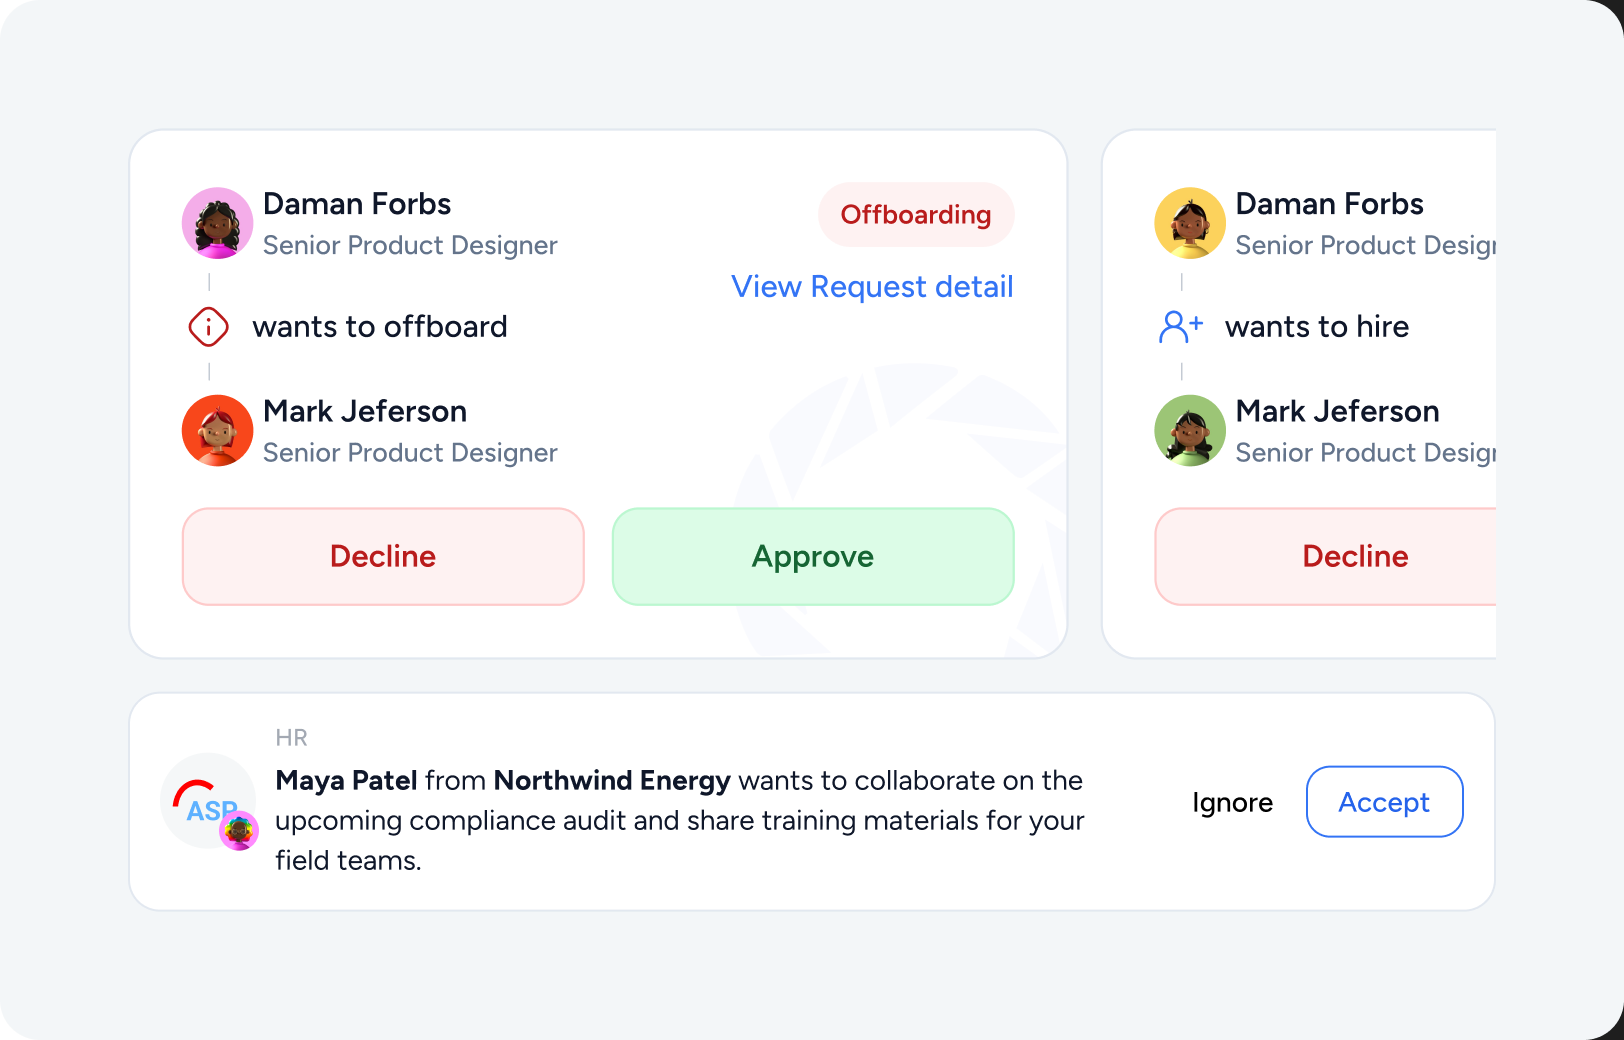
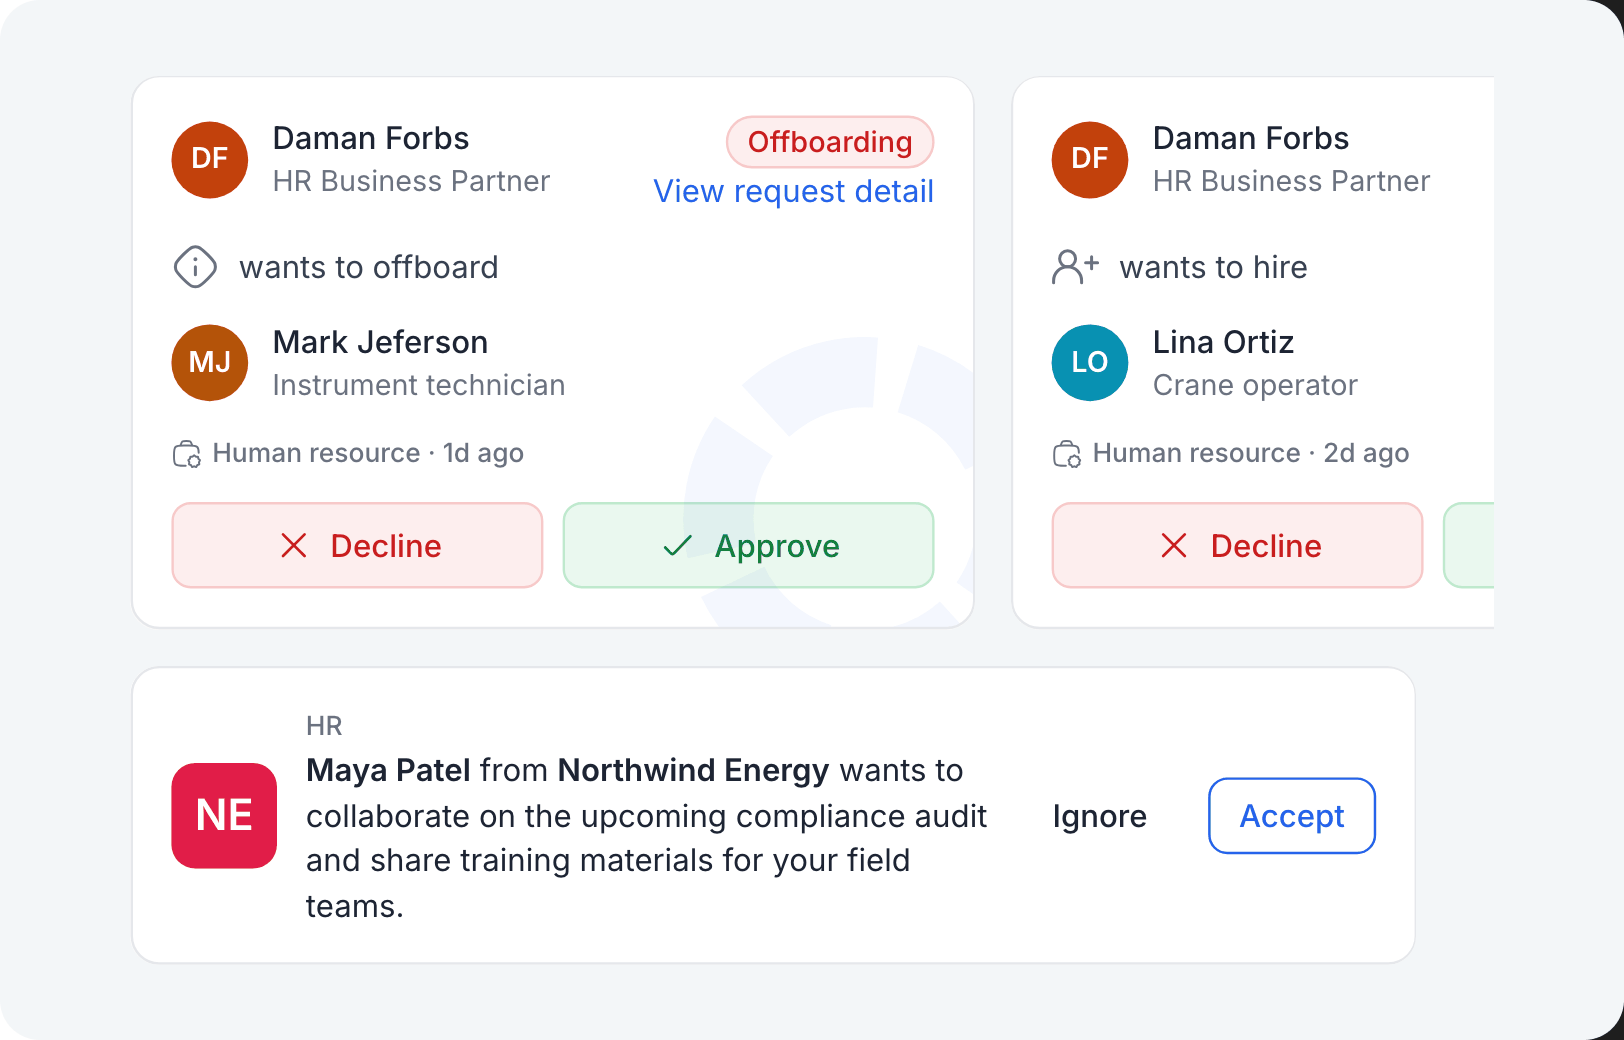
feat(work): Connect2WOW thumbnails show the redesigned screens
Same pages as before (the HR worker record, split over the first and
last panel, and the approval requests with a partner request), rendered
from the redesigned prototype at 2x over the original backgrounds.

diff --git a/src/_data/home.js b/src/_data/home.js
@@ -74,9 +74,9 @@ module.exports = {
           { text: " Co-built a 40–50 component design system and the model that decides how every alert looks and behaves." },
         ],
         panels: [
-          { src: "/Assets/v4/work/connect2wow/panel-1.jpg", alt: "Connect2WOW HR module: a worker profile with the Report to me view open" },
-          { src: "/Assets/v4/work/connect2wow/panel-2.png", alt: "Connect2WOW request cards: an offboarding request with Decline and Approve, and an HR collaboration notification" },
-          { src: "/Assets/v4/work/connect2wow/panel-3.jpg", alt: "Connect2WOW HR module: the worker profile screen, second view" },
+          { src: "/Assets/v4/work/connect2wow/panel-1.jpg", alt: "Connect2WOW HR module: Mark Rushmore's worker record, with the People list open" },
+          { src: "/Assets/v4/work/connect2wow/panel-2.png", alt: "Connect2WOW Home: offboarding and hiring requests with Decline and Approve, and a partner's connection request" },
+          { src: "/Assets/v4/work/connect2wow/panel-3.jpg", alt: "Connect2WOW HR module: the same worker record, with site, phone, record tabs and an expired certificate" },
         ],
       },
       {
